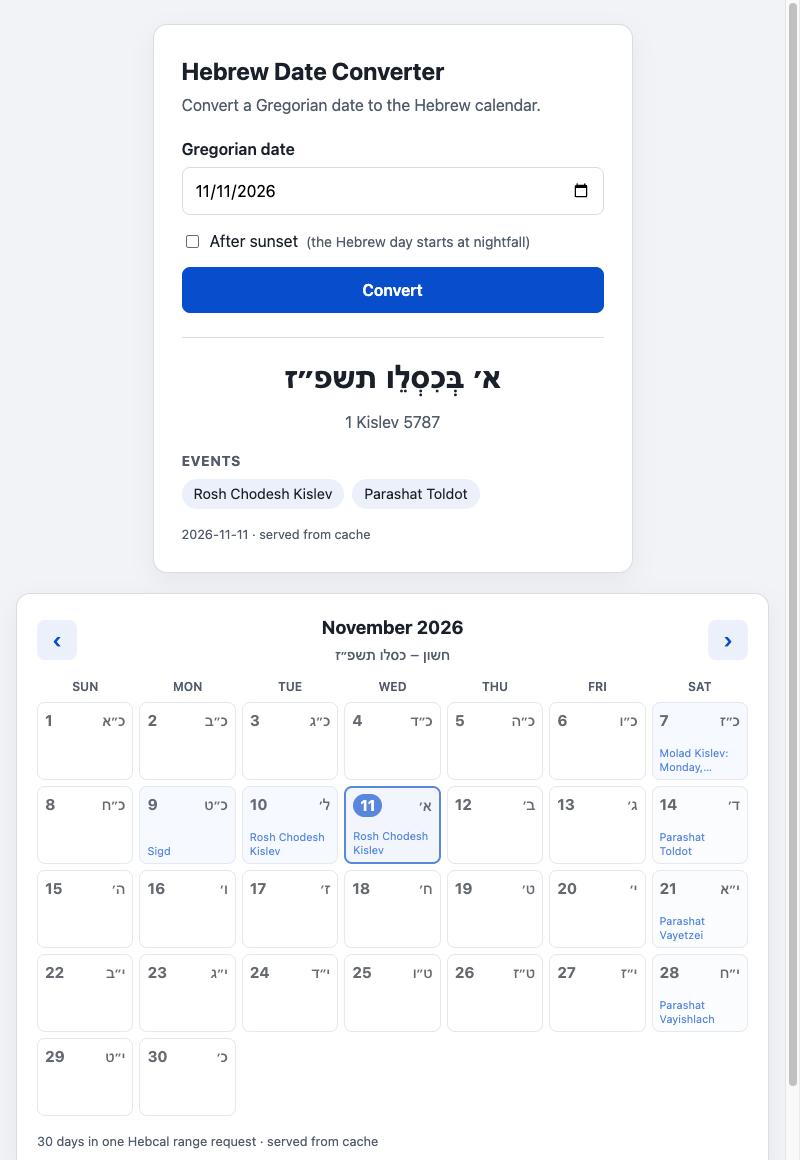
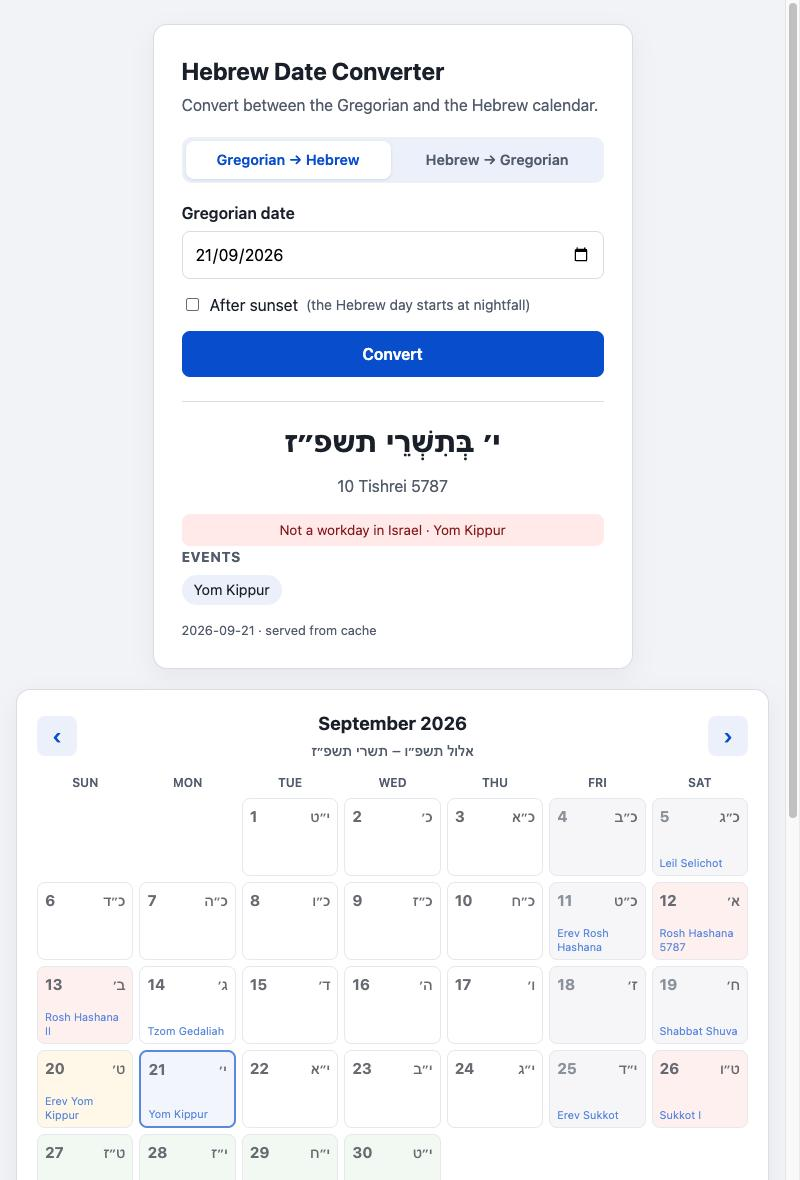
docs: workday and batch APIs, business rules, new screenshot; fix badge colours

diff --git a/public/styles.css b/public/styles.css
@@ -434,10 +434,17 @@ footer a {
 }
 
 .workday-badge.day-holiday {
+  background: #fdecec;
   color: #8a1c1c;
 }
 
+.workday-badge.day-chol_hamoed {
+  background: #eef6ee;
+  color: #1f5b2a;
+}
+
 .workday-badge.day-holiday_eve {
+  background: #fff6e0;
   color: #7a5200;
 }
 

diff --git a/README.md b/README.md
@@ -8,8 +8,13 @@ The browser never calls Hebcal directly. It calls this service's own API, which 
 input, calls Hebcal with a timeout and retry, validates Hebcal's answer, maps it to a clean
 response format, and caches the result.
 
-Selecting a date also shows its **Gregorian month as a calendar with the Hebrew date in every
-day**, built from a single Hebcal _range_ request per month.
+On top of the conversion:
+
+- a **month calendar** with the Hebrew date in every day, from a single Hebcal _range_ request per
+  month, coloured by Israeli workday status;
+- **Israeli business days**: is a date a workday (and if not, why), and what date is N business
+  days from now;
+- **batch conversion** of up to 100 dates in one request, with per-item results.
 
 ![screenshot](docs/screenshot.jpg)
 
@@ -37,33 +42,36 @@ Logs are JSON lines. For readable logs in development: `npm run dev | npx pino-p
 ## Architecture
 
 ```
-Browser (public/)            This service (src/)                                   Hebcal
-─────────────────            ──────────────────────────────────────────────────    ──────────
-index.html + app.js  ──GET /api/convert?date=───▶  routes/convert.ts
-                     ──GET /api/convert-hebrew?─▶  routes/convert.ts
-                     ──GET /api/calendar?month=─▶  routes/calendar.ts
-                                                     │ validation/dateQuery.ts  (400 if invalid)
-                                                     ▼
-                                                  services/converterService.ts ──▶ lib/cache.ts
-                                                     │ (cache miss)                (dates, months)
-                                                     ▼
-                                                  services/hebcalClient.ts  ──HTTPS──▶ /converter
-                                                     │ convert():      ?gy&gm&gd&g2h=1  (one date)
-                                                     │ convertFromHebrew(): ?hy&hm&hd&h2g=1
-                                                     │ convertMonth(): ?start&end       (range)
-                                                     │ timeout, retry, schema check, map to DTO
-                                                     ▼
-                     ◀── JSON (DTO) or JSON error ── middleware/errorHandler.ts
+Browser (public/)              This service (src/)                                          Hebcal
+─────────────────              ─────────────────────────────────────────────────────         ─────────
+app.js / tools.js
+ GET  /api/convert?date=      ─▶ routes/convert.ts  ─┐
+ GET  /api/convert-hebrew?    ─▶ routes/convert.ts   │  validation/dateQuery.ts (400 if invalid)
+ GET  /api/calendar?month=    ─▶ routes/calendar.ts  ├─▶ services/converterService.ts ─▶ cache
+ POST /api/convert/batch      ─▶ routes/batch.ts    ─┘       │ (miss)
+                                                             ▼
+                                                     services/hebcalClient.ts ─────────▶ /converter
+                                                       g2h, h2g, range                    │
+ GET  /api/workday[/month|/add] ─▶ routes/workday.ts ─▶ services/workdayService.ts ─▶ cache│
+                                                       Israeli business-day rules         │
+                                                             │ (miss, once per year)      │
+                                                             ▼                            │
+                                                     services/hebcalHolidaysClient.ts ──▶ /hebcal
+                                                             │
+                                  both clients use ─▶ services/hebcalHttp.ts
+                                                      timeout, retry, status handling, schema check
+                         ◀── JSON or JSON error ── middleware/errorHandler.ts
 ```
 
 | Layer            | File                                                                           | Responsibility                                                                                    |
 | ---------------- | ------------------------------------------------------------------------------ | ------------------------------------------------------------------------------------------------- |
 | Composition root | `src/server.ts`                                                                | Reads config, wires real dependencies, starts the server, graceful shutdown                       |
 | App              | `src/app.ts`                                                                   | Express app factory: request logging + request id, routes, static files, error handler            |
-| Routes           | `src/routes/convert.ts`, `src/routes/calendar.ts`                              | HTTP only: parse query → call service → send JSON                                                 |
+| Routes           | `src/routes/*.ts`                                                              | HTTP only: parse input → call a service → send JSON                                               |
 | Validation       | `src/validation/dateQuery.ts`, `src/lib/dates.ts`, `src/lib/hebrewCalendar.ts` | Strict `YYYY-MM-DD` / `YYYY-MM`, real calendar dates, `afterSunset`; Hebrew months and leap years |
-| Service          | `src/services/converterService.ts`                                             | Business logic: cache lookup, call client, store result                                           |
-| Integration      | `src/services/hebcalClient.ts`                                                 | Everything about Hebcal: URL, timeout, retry, status handling, response validation, mapping       |
+| Services         | `src/services/converterService.ts`, `src/services/workdayService.ts`           | Business logic and caching; no HTTP, no Hebcal details                                            |
+| Integration      | `src/services/hebcalClient.ts`, `src/services/hebcalHolidaysClient.ts`         | Hebcal endpoints: URLs, response schemas, mapping to our DTOs                                     |
+| HTTP plumbing    | `src/services/hebcalHttp.ts`                                                   | Shared by both clients: timeout, retry on transient errors, status handling, schema validation    |
 | Errors           | `src/lib/errors.ts`, `src/middleware/errorHandler.ts`                          | Typed errors → one consistent JSON error shape                                                    |
 | Config           | `src/config.ts`                                                                | Environment variables, validated at startup                                                       |
 
@@ -180,6 +188,76 @@ curl "http://localhost:3000/api/calendar?month=2026-11"
 
 `weekday` is 0 = Sunday … 6 = Saturday. Errors use the same shape and codes as `/api/convert`.
 
+### Israeli workdays
+
+Built on Hebcal's Israeli holiday list (`/hebcal?i=on`), one call per Gregorian year, cached.
+
+| Endpoint                                      | Returns                                                           |
+| --------------------------------------------- | ----------------------------------------------------------------- |
+| `GET /api/workday?date=2026-09-21`            | Whether the date is a workday, its type and the reason            |
+| `GET /api/workday/month?month=2026-09`        | The same for every day of the month (used to colour the calendar) |
+| `GET /api/workday/add?date=2026-09-10&days=3` | The date after N business days, and the non-working days skipped  |
+
+```json
+{
+  "date": "2026-09-21",
+  "weekday": 1,
+  "isWorkday": false,
+  "dayType": "holiday",
+  "reason": "Yom Kippur",
+  "hebrewReason": "יום כיפור"
+}
+```
+
+Business rules (`src/services/workdayService.ts`):
+
+| `dayType`     | When                                                 | `isWorkday` |
+| ------------- | ---------------------------------------------------- | ----------- |
+| `holiday`     | Yom Tov (Hebcal's `yomtov` flag) or Yom HaAtzma'ut   | no          |
+| `weekend`     | Friday or Saturday                                   | no          |
+| `holiday_eve` | The day before a `holiday` (usually a shortened day) | yes         |
+| `chol_hamoed` | Intermediate days of Pesach and Sukkot               | yes         |
+| `workday`     | Any other Sunday–Thursday                            | yes         |
+
+Years 1949–2999; `days` 1–100. Not covered: election days, local or company-specific days off.
+
+### `POST /api/convert/batch`
+
+Converts up to 100 Gregorian dates in one request, for system-to-system use (for example an HR
+system converting employee birthdays).
+
+```bash
+curl -X POST http://localhost:3000/api/convert/batch \
+  -H 'Content-Type: application/json' \
+  -d '{"dates": ["2026-11-11", "2025-02-30", "2026-11-11"]}'
+```
+
+```json
+{
+  "results": [
+    {
+      "input": "2026-11-11",
+      "ok": true,
+      "result": { "hebrew": { "hebrewText": "א׳ בְּכִסְלֵו תשפ״ז", "...": "..." }, "...": "..." }
+    },
+    {
+      "input": "2025-02-30",
+      "ok": false,
+      "error": { "code": "INVALID_DATE", "message": "2025-02-30 is not a valid calendar date" }
+    },
+    { "input": "2026-11-11", "ok": true, "result": { "...": "..." } }
+  ],
+  "summary": { "total": 3, "succeeded": 2, "failed": 1, "uniqueConverted": 1 }
+}
+```
+
+- **Partial success:** one bad date doesn't fail the batch. Every input gets its own result, in
+  input order; the response is `200`. Only a malformed request fails as a whole: invalid JSON or a
+  wrong shape → `400 INVALID_REQUEST`, a body over 16 KB → `413 PAYLOAD_TOO_LARGE`.
+- **Duplicates are converted once**, and the cache serves repeats across batches.
+- **At most 4 Hebcal calls run in parallel** (`src/lib/concurrency.ts`), so a batch of 100 doesn't
+  hit a free public API with 100 simultaneous requests.
+
 ### `GET /api/health`
 
 `{ "status": "ok", "uptimeSeconds": 42 }` — liveness check; does not call Hebcal.
@@ -190,15 +268,16 @@ All settings come from environment variables (see [`.env.example`](.env.example)
 to override). They are validated at startup, so a wrong value stops the service immediately with a
 clear message instead of failing later.
 
-| Variable            | Default                            | Description                                       |
-| ------------------- | ---------------------------------- | ------------------------------------------------- |
-| `PORT`              | `3000`                             | HTTP port                                         |
-| `HEBCAL_BASE_URL`   | `https://www.hebcal.com/converter` | Hebcal endpoint                                   |
-| `HEBCAL_TIMEOUT_MS` | `5000`                             | Timeout per Hebcal request                        |
-| `HEBCAL_RETRIES`    | `1`                                | Extra attempts on network errors / 5xx            |
-| `CACHE_TTL_MS`      | `86400000` (24h)                   | How long a conversion is cached                   |
-| `CACHE_MAX_ENTRIES` | `1000`                             | Cache size limit (least recently used is evicted) |
-| `LOG_LEVEL`         | `info`                             | `fatal` … `trace`, or `silent`                    |
+| Variable              | Default                            | Description                                       |
+| --------------------- | ---------------------------------- | ------------------------------------------------- |
+| `PORT`                | `3000`                             | HTTP port                                         |
+| `HEBCAL_BASE_URL`     | `https://www.hebcal.com/converter` | Hebcal converter endpoint                         |
+| `HEBCAL_HOLIDAYS_URL` | `https://www.hebcal.com/hebcal`    | Hebcal calendar endpoint (Israeli holidays)       |
+| `HEBCAL_TIMEOUT_MS`   | `5000`                             | Timeout per Hebcal request                        |
+| `HEBCAL_RETRIES`      | `1`                                | Extra attempts on network errors / 5xx            |
+| `CACHE_TTL_MS`        | `86400000` (24h)                   | How long a conversion is cached                   |
+| `CACHE_MAX_ENTRIES`   | `1000`                             | Cache size limit (least recently used is evicted) |
+| `LOG_LEVEL`           | `info`                             | `fatal` … `trace`, or `silent`                    |
 
 ## Design decisions
 
@@ -223,6 +302,15 @@ clear message instead of failing later.
 - **Caching.** A date's Hebrew equivalent never changes; Hebcal itself returns
   `Cache-Control: max-age=31536000`. Two in-memory LRU caches with a TTL: single dates keyed by
   `date + afterSunset`, and months keyed by `YYYY-MM`. Errors are never cached.
+- **One HTTP layer for every upstream call.** `hebcalHttp.ts` owns timeout, retry, status
+  handling and schema validation. The converter client and the holidays client only build URLs
+  and map payloads, so a second Hebcal endpoint didn't mean a second copy of the resilience code.
+- **Business rules in one service.** The workday rules live in `WorkdayService`, computed once
+  per year from Hebcal's holiday list and cached. The calendar colouring, the result badge and the
+  business-day calculator all use the same rules through the API; the browser has no copy of them.
+- **Batch: per-item results, not all-or-nothing.** In system integrations one bad record should
+  not block the other 99. Each item carries `ok` and either a result or an error with the same
+  codes as the single-date API, plus a summary for monitoring.
 - **Errors as types.** Each failure is a subclass of `AppError` with an HTTP status and code. One
   middleware converts them into the error JSON; unknown errors become a generic 500 and are logged
   with their stack.
@@ -239,6 +327,10 @@ npm test
 
 - `tests/unit/dateQuery.test.ts` — date and month query formats, impossible dates, `afterSunset`.
 - `tests/unit/dates.test.ts` — leap years, month lengths, weekdays (also for years below 100).
+- `tests/unit/workdayService.test.ts` — every day type (including a holiday on Shabbat and
+  Yom HaAtzma'ut), one Hebcal call per year, adding business days across holidays and across a
+  year boundary.
+- `tests/unit/concurrency.test.ts` — input order kept, never more than the limit in flight.
 - `tests/unit/hebrewDateQuery.test.ts` — Hebrew leap-year cycle, month names, Adar vs. leap
   year, year/day ranges.
 - `tests/unit/cache.test.ts` — TTL expiry and LRU eviction.
@@ -251,7 +343,9 @@ npm test
   stack (route → service → cache → client → error middleware) with only `fetch` faked, for both
   `/api/convert`, `/api/convert-hebrew` and `/api/calendar`: 200, cache hit, 400 (ours and
   Hebcal's), 502, 504, incomplete range,
-  request-id propagation, 404, health.
+  request-id propagation, 404, health. Workday routes (200, 400s without calling Hebcal, 502
+  when the holiday service is down) and the batch endpoint (partial success, duplicates
+  converted once, max 4 parallel calls, per-item outage, 400 for bad bodies and JSON, 413).
 
 GitHub Actions runs lint, type check, tests and build on every push (`.github/workflows/ci.yml`).
 
@@ -287,6 +381,14 @@ GitHub Actions runs lint, type check, tests and build on every push (`.github/wo
   translated into our 400 with Hebcal's message (in the Gregorian direction a Hebcal 400 means our
   own validation missed something, so it stays a 502). As a last guard the client verifies that
   the answer is for the year, month and day that were requested.
+- **Defining "workday" as a business rule.** Hebcal knows holidays, not workdays. The rules
+  (Sun–Thu week, Yom Tov and Yom HaAtzma'ut off, eves and Chol HaMoed as workdays) are an explicit,
+  documented, tested decision. Two details: the "eve" check for Dec 31 needs Jan 1 of the next
+  year, so each yearly request asks for one extra day; and Hebcal spells "Yom HaAtzma’ut" with a
+  curly apostrophe, so it is matched loosely.
+- **Batch without hammering the upstream.** A concurrency-limited pool plus de-duplication, and a
+  body-size limit with a proper `413`, so one large request can't turn into a burst against a free
+  public API.
 - **Out-of-order responses in the UI.** Clicking through months quickly can make a slow response
   arrive after a newer one. Each request gets a sequence number and only the latest one renders.
 - **Weekday for old dates.** `Date.UTC(33, 0, 1)` means 1933, not year 33. The date helpers use
@@ -304,3 +406,6 @@ GitHub Actions runs lint, type check, tests and build on every push (`.github/wo
 - OpenAPI spec for the API, Dockerfile, and deployment.
 - A Hebrew-month calendar view.
 - Prefetch the neighbouring months for instant calendar navigation.
+- Batch: group nearby dates into range requests (one call per ≤180 days) instead of one call per
+  date; accept CSV directly (`text/csv`).
+- Workdays: configurable rules per customer (for example Friday as a half day, or company days off).
